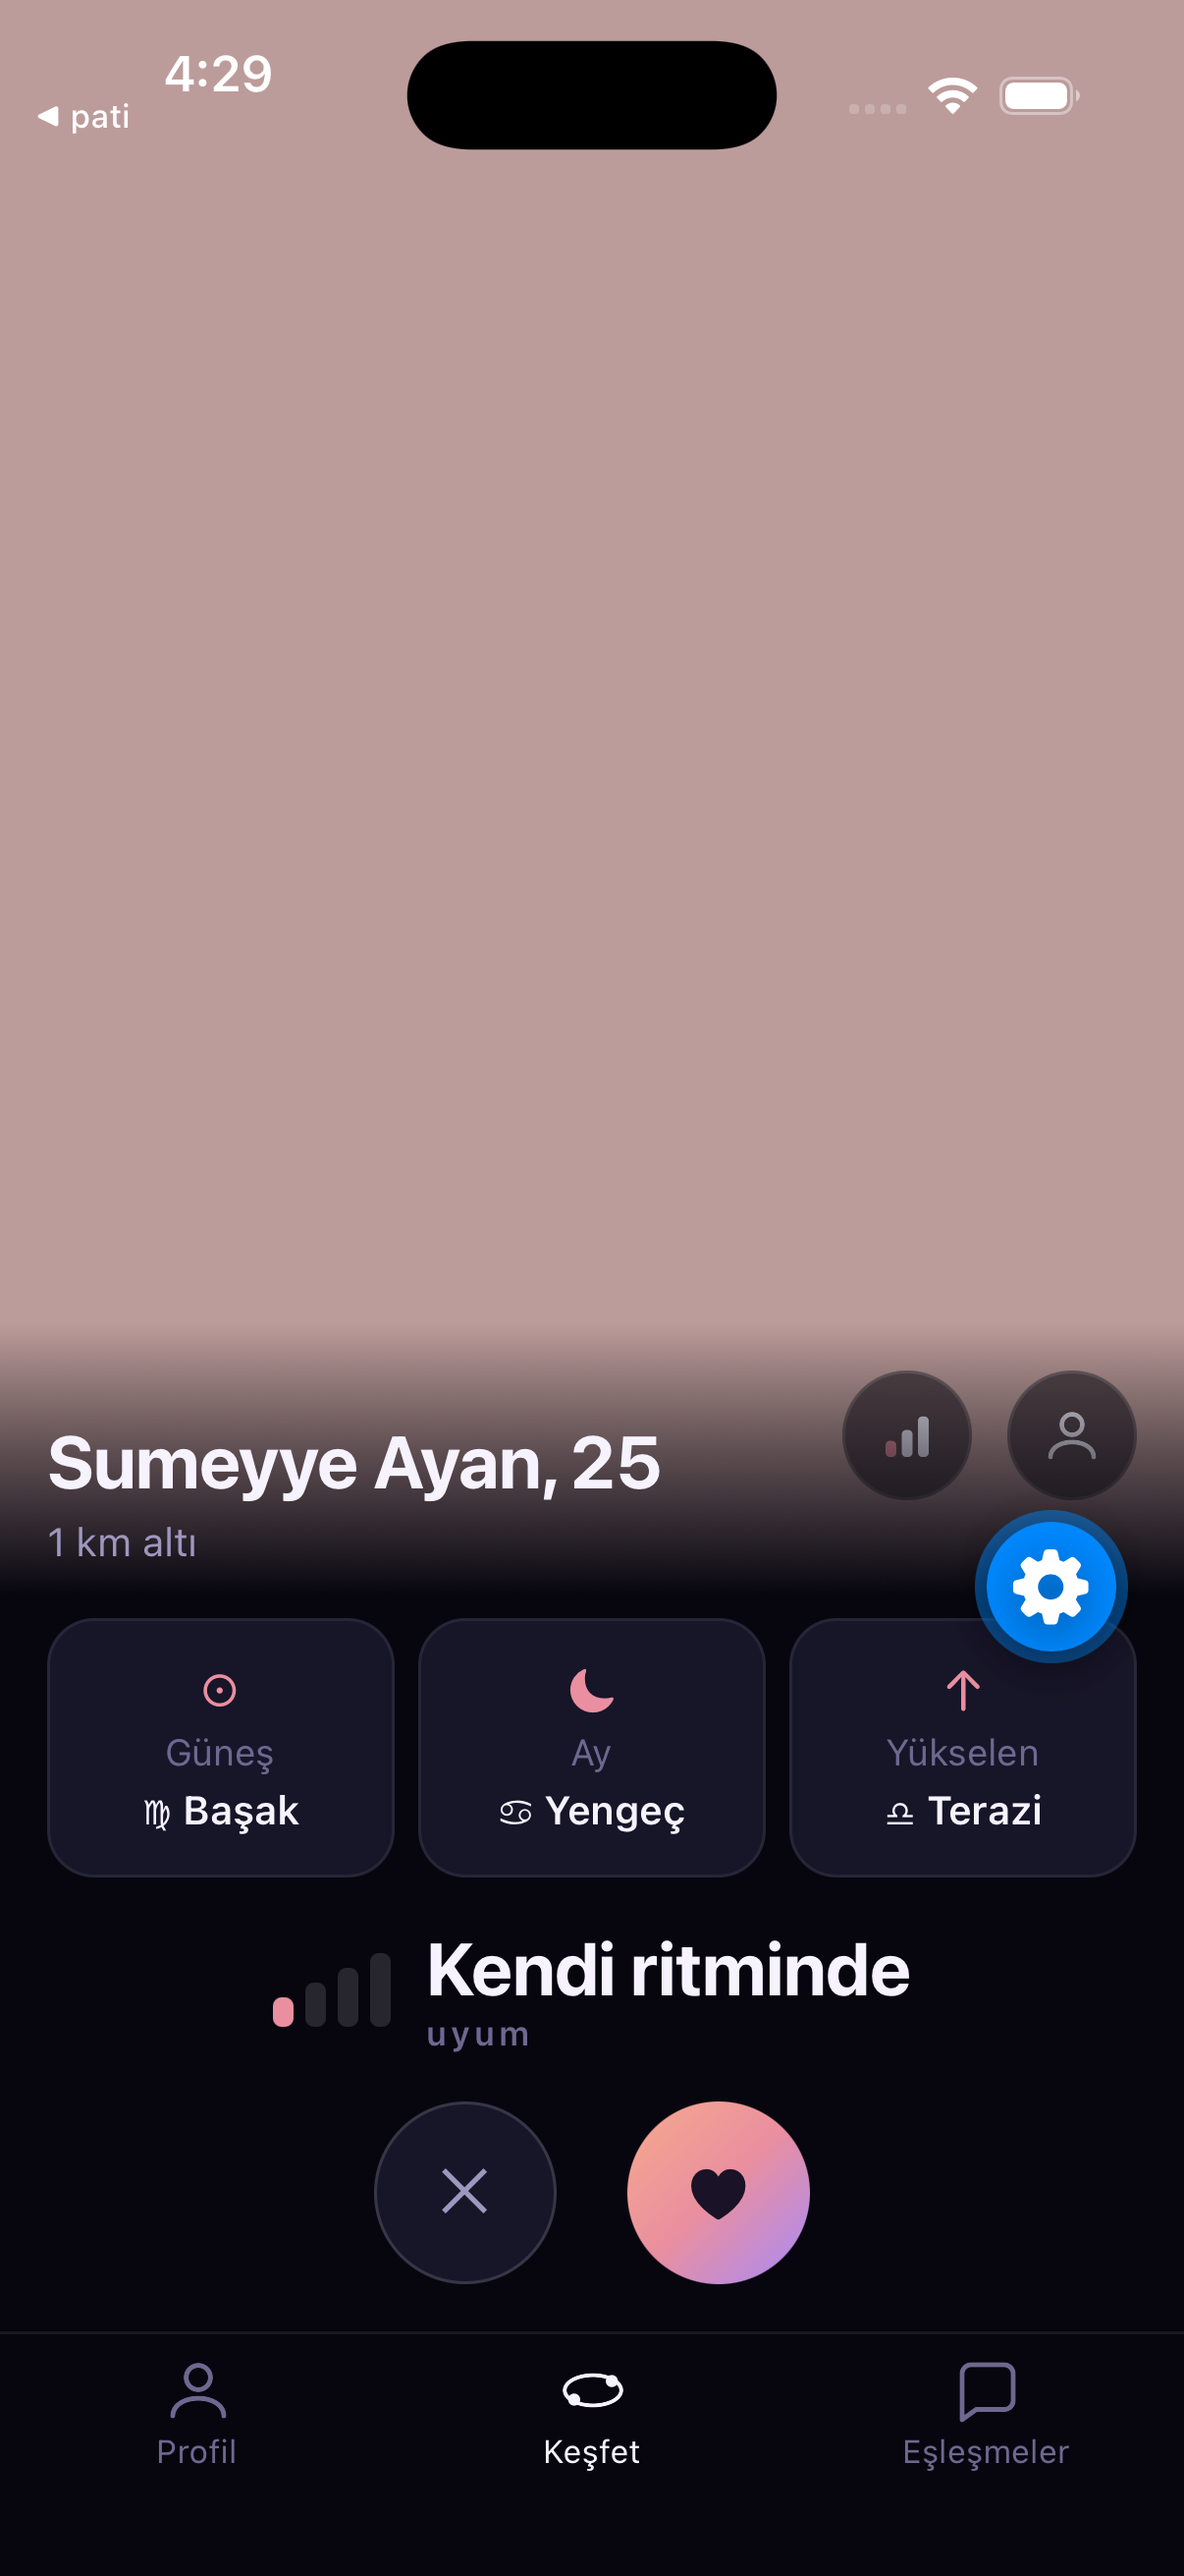
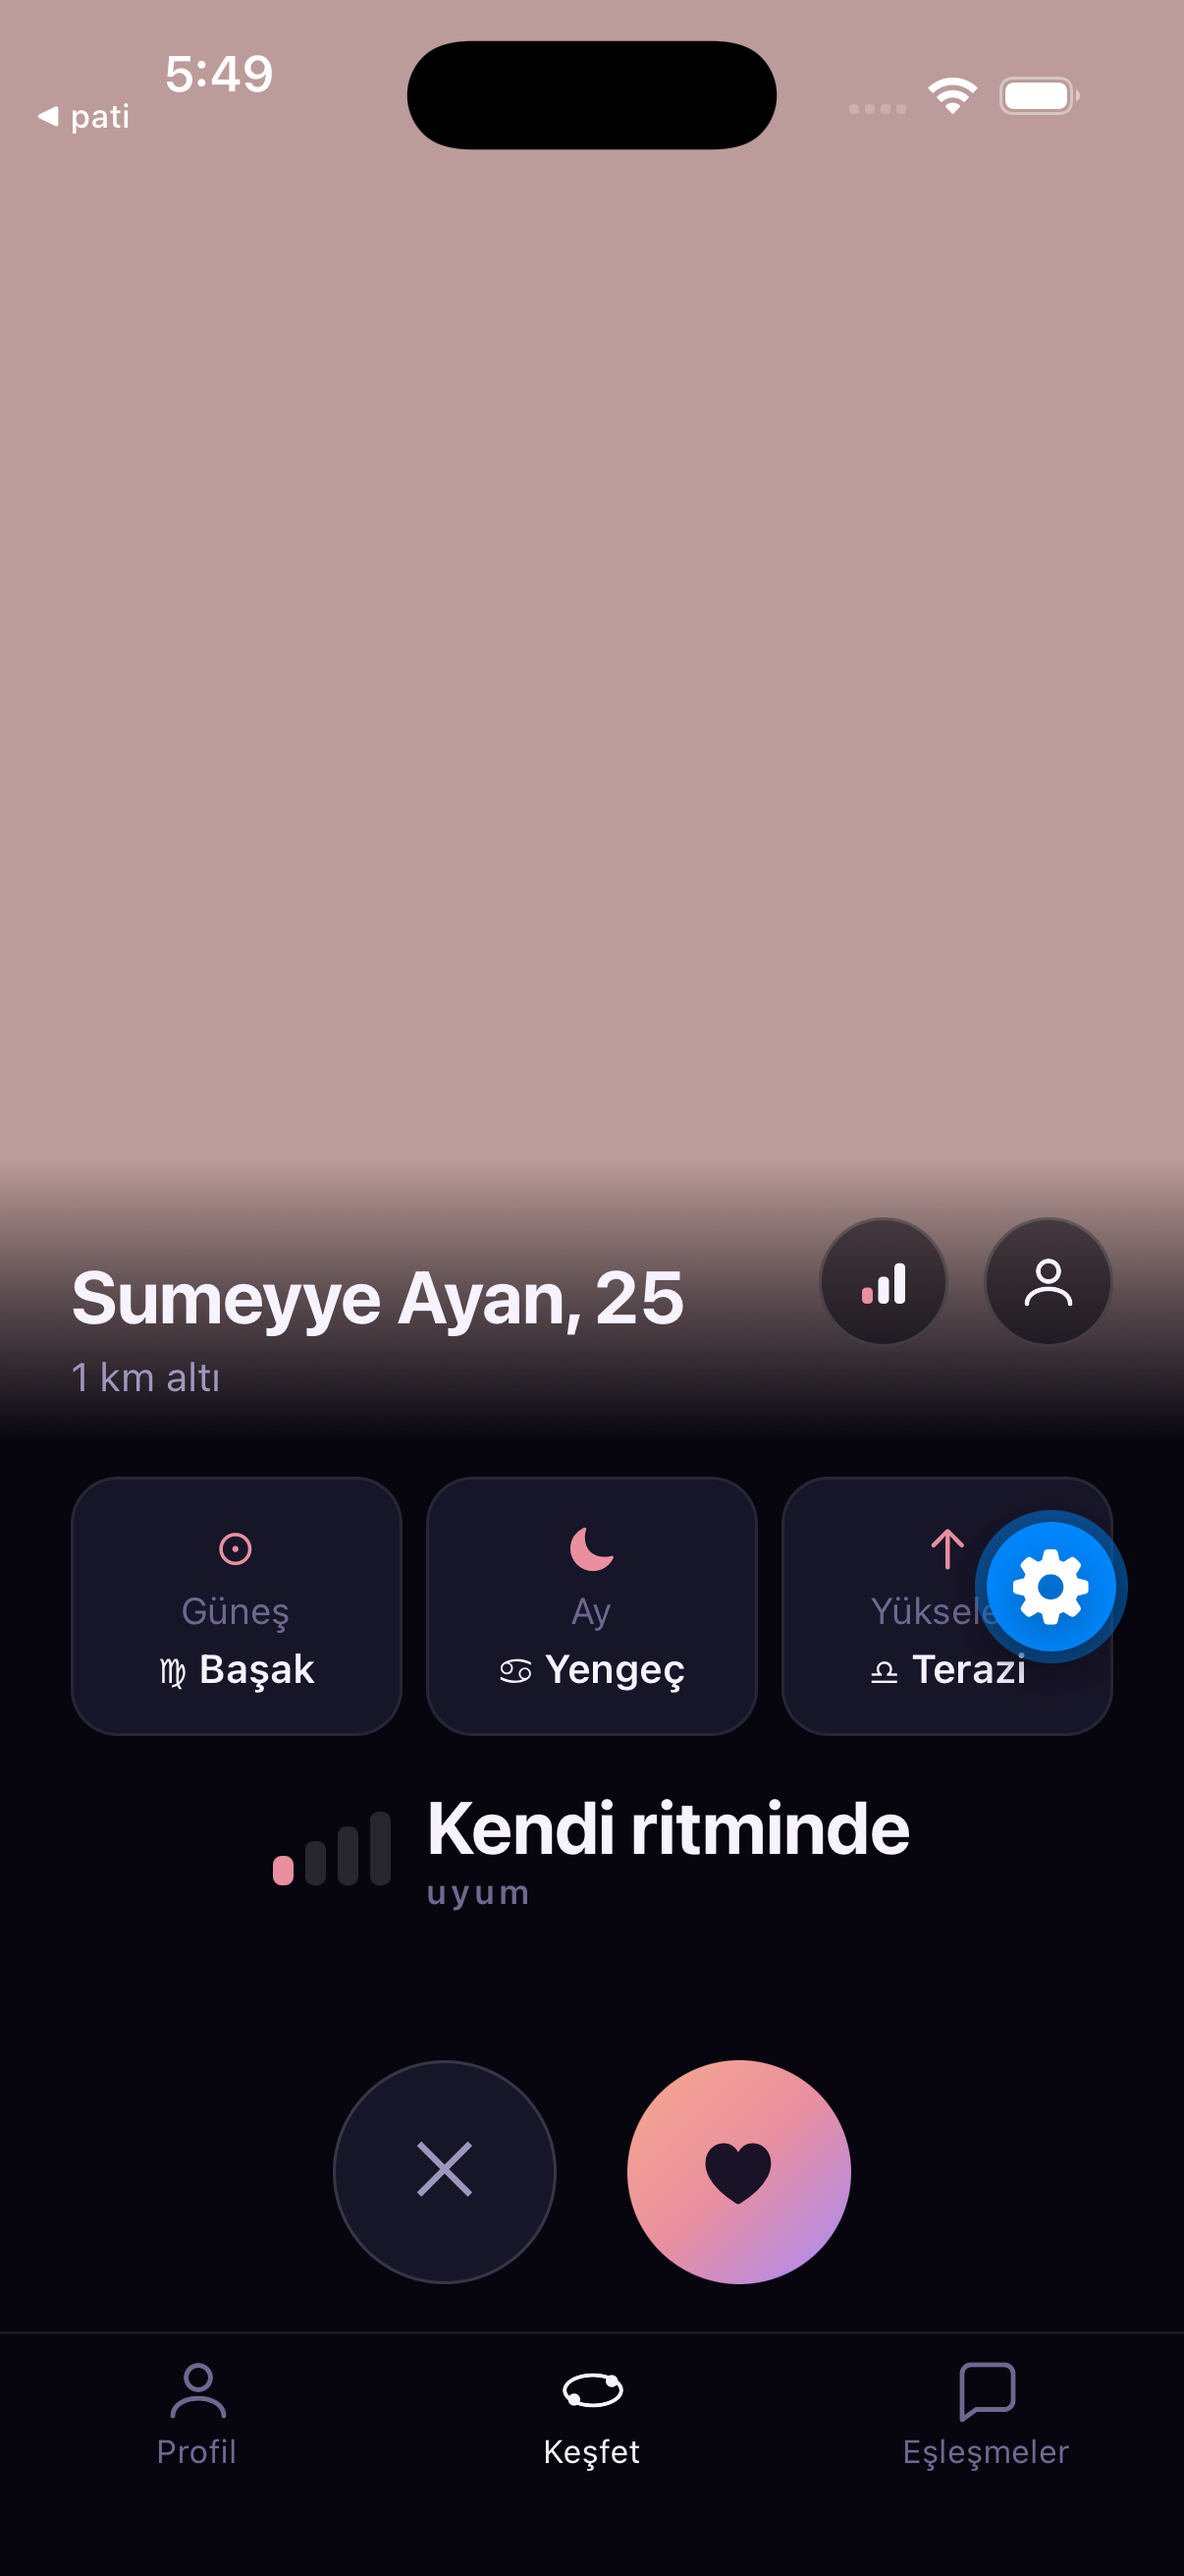
fix(mobile): the deck card and the profile draw the same person the same way
The owner said the photo, the name and the big three did not look
identical on the two screens. Two agents diffed the drawing paths with
every token resolved to points; all five differences were the deck's
side, and four of them were bare literals where the profile's equivalent
comes from Screen through SCREEN_PADDING: the name's gutter (16 vs 24),
the gap under the last line in the gradient (8 vs 12), the big-three
row's gutter (16, which also made every chip 5.3pt wider) and the gap
above that row (8 vs Screen's 12). The deck moved in each case, because
the profile's values live in the component three screens share.

The fifth was content, not style: the deck always draws a distance under
the name and the owner's own profile had nothing to put there, which let
the name drop 22pt on that screen alone. The caption is now always
rendered, empty when there is nothing to say.

Measured after: the big-three row starts and ends at the same x on both
and its top edge is at 502.0pt on each.

Also the owner's other half of the same message — the photo is shorter
(PHOTO_SCREEN_FRACTION 0.62 -> 0.56) and the verdict buttons took the
height, 62 -> 76pt.

Left standing on purpose: the profile's paging dots, which the deck has
no use for and which move nothing, and the deck's Dynamic Type cap, which
is invisible at the default size and exists because the deck cannot
scroll.

diff --git a/apps/mobile/app/(tabs)/(discover)/discover.tsx b/apps/mobile/app/(tabs)/(discover)/discover.tsx
@@ -27,7 +27,7 @@ import { CardIcon } from '@/components/CardIcon';
 import { CompatibilityDetail } from '@/components/CompatibilityDetail';
 import { BandMeter } from '@/components/Meter';
 import { Popup } from '@/components/Popup';
-import { PHOTO_SCREEN_FRACTION } from '@/components/ui';
+import { PHOTO_SCREEN_FRACTION, SCREEN_PADDING } from '@/components/ui';
 import { ProfileView } from '@/components/ProfileView';
 import { useScreenName } from '@/lib/a11y';
 import { useBottomGap } from '@/lib/insets';
@@ -673,14 +673,20 @@ const styles = StyleSheet.create({
     backgroundColor: color.surfaceHigh,
   },
   cardPhoto: { position: 'absolute', top: 0, left: 0, right: 0, bottom: 0 },
-  info: { paddingHorizontal: space.lg, paddingTop: space.sm, gap: space.sm },
+  info: {
+    paddingHorizontal: SCREEN_PADDING,
+    // `Screen`'s own gap between children, so the big three sit the same
+    // distance below the photo here as they do on the profile.
+    paddingTop: space.md,
+    gap: space.sm,
+  },
   // Above the name's own line, hard against the right gutter, so the two
   // never crowd a long name. The photo under them is still the swipe
   // surface: a drag that starts here passes to the card, because the
   // responder claims on movement and a Pressable only acts on a release.
   cardActions: {
     position: 'absolute',
-    right: space.lg,
+    right: SCREEN_PADDING,
     bottom: space.xxl,
     flexDirection: 'row',
     gap: space.md,
@@ -695,15 +701,18 @@ const styles = StyleSheet.create({
     alignItems: 'center',
     justifyContent: 'center',
   },
-  footer: { paddingHorizontal: space.lg, gap: space.sm },
+  footer: { paddingHorizontal: SCREEN_PADDING, gap: space.sm },
   photoScrim: {
     position: 'absolute',
     left: 0,
     right: 0,
     bottom: 0,
-    paddingHorizontal: space.lg,
+    // SCREEN_PADDING, not a literal: this block has to land on the same
+    // x as the profile's, which gets it from `Screen` (owner, 2026-09-14:
+    // the two cards must look exactly the same).
+    paddingHorizontal: SCREEN_PADDING,
     paddingTop: space.xxl,
-    paddingBottom: space.sm,
+    paddingBottom: space.md,
     gap: 2,
     // Paint only. It overlaps the two corner buttons, and a gradient
     // with a name in it must not be what a finger lands on.
@@ -760,8 +769,8 @@ const styles = StyleSheet.create({
     marginTop: space.sm,
   },
   round: {
-    width: 62,
-    height: 62,
+    width: 76,
+    height: 76,
     borderRadius: radius.pill,
     borderWidth: 1,
     borderColor: color.borderStrong,
@@ -770,14 +779,14 @@ const styles = StyleSheet.create({
     justifyContent: 'center',
   },
   roundLike: {
-    width: 62,
-    height: 62,
+    width: 76,
+    height: 76,
     borderRadius: radius.pill,
     overflow: 'hidden',
   },
   roundFill: { flex: 1, alignItems: 'center', justifyContent: 'center' },
-  roundGlyph: { fontSize: 22, color: color.textMuted },
-  roundGlyphOn: { fontSize: 24, color: color.onBright },
+  roundGlyph: { fontSize: 27, color: color.textMuted },
+  roundGlyphOn: { fontSize: 29, color: color.onBright },
   buttonBusy: { opacity: 0.5 },
   muted: { ...type.body, color: color.textMuted, textAlign: 'center' },
 });

diff --git a/apps/mobile/components/ProfileView.tsx b/apps/mobile/components/ProfileView.tsx
@@ -267,9 +267,12 @@ function PhotoCarousel({
         <Text style={styles.name} testID="profile-name">
           {age === null ? name : `${name}, ${age}`}
         </Text>
-        {caption === undefined ? null : (
-          <Text style={styles.caption}>{caption}</Text>
-        )}
+        {/* Always drawn, even with nothing to say: the deck's card always
+            has a distance line here, and the two are supposed to be the
+            same card (owner, 2026-09-14). An empty line keeps the name on
+            the same y rather than letting it drop 22pt on the one screen
+            that has no caption. */}
+        <Text style={styles.caption}>{caption ?? ''}</Text>
       </LinearGradient>
     </View>
   );

diff --git a/apps/mobile/components/ui.tsx b/apps/mobile/components/ui.tsx
@@ -41,7 +41,7 @@ export const SCREEN_TOP_PADDING = 68;
  * The two popup sheets are not in this: they are 88% of the screen tall
  * and keep the picture's own 3:4.
  */
-export const PHOTO_SCREEN_FRACTION = 0.62;
+export const PHOTO_SCREEN_FRACTION = 0.56;
 
 /**
  * What a host owes its first child if that child takes the top edge.

diff --git a/docs/NOTES.md b/docs/NOTES.md
@@ -3994,3 +3994,40 @@ With the pills gone the card had about 68pt of slack between the band and
 the ✕ / ♥, so `PHOTO_SCREEN_FRACTION` went 0.55 → 0.62 and the photo took
 it. The profile follows the same constant, so the two still end on the
 same line.
+
+## 2026-09-14 — the deck card and the profile, measured against each other
+
+The owner said the photo, the name and the big three did not look exactly
+the same on the two screens. Two agents diffed the drawing paths and
+resolved every token to points rather than eyeballing it; the list came
+back the same from both, and all of it was the deck's side drifting.
+
+Four numbers, all bare literals in `discover.tsx` where the profile's
+equivalent comes from `Screen` through `SCREEN_PADDING`: the name's
+gutter (16 against 24), the gap under the last line inside the gradient
+(8 against 12), the big-three row's gutter (16, which also made every
+chip 5.3pt wider) and the gap above that row (8 against `Screen`'s own
+12). The deck moved in every case, because the profile's values live in
+the component three screens share and moving them would drag the deck's
+own person sheet and the chat header's along.
+
+The fifth was not a style at all. The deck always draws a distance line
+under the name; the owner's own profile has nothing to put there and so
+drew none, which let the name drop 22pt on that one screen. The caption
+is now always rendered, empty when there is nothing to say. A blank line
+reserved on purpose is worth the note, because it looks like a mistake to
+anyone who finds it without this paragraph.
+
+Verified after the change rather than asserted: the big-three row starts
+at the same x and ends at the same x on both screens, and its top edge is
+at 502.0pt on each.
+
+Two differences are left standing on purpose. The profile draws paging
+dots and the deck does not — the deck shows one photo by design, and the
+dots sit above the name so they move nothing. And the deck caps Dynamic
+Type where the profile does not, which is invisible at the default size
+and deliberate above it: the deck cannot scroll and the profile can.
+
+The photo also got shorter — `PHOTO_SCREEN_FRACTION` 0.62 → 0.56 — and
+the verdict buttons went 62 → 76pt with it, which is what the owner asked
+the height for.

diff --git a/docs/ROADMAP.md b/docs/ROADMAP.md
@@ -1158,7 +1158,13 @@ other.
       the aspect sentence ("Satürn'ün onun Mars'ıyla üçgen açı yapıyor")
       and the remaining-count both left the card, taking
       `t.discover.noAspectWhy` and `t.discover.remaining` with them. ✕ / ♥
-      stay the last row. The deck photo and the profile photo now take the
+      stay the last row, at 76pt rather than 62 — the photo gave up the
+      height for them (`PHOTO_SCREEN_FRACTION` 0.62 → 0.56). Four gutters
+      and gaps on the deck that had drifted from the profile's were moved
+      onto `SCREEN_PADDING`, and the profile now always reserves the line
+      the deck fills with a distance, so the name sits at the same height
+      on both. Measured: the big-three row starts and ends at the same x
+      on each screen and its top edge is at 502.0pt on both. The deck photo and the profile photo now take the
       same share of the window (`PHOTO_SCREEN_FRACTION`), so their bottom
       edges line up: the profile takes it directly, the deck fills what
       its fixed block leaves and caps there, which is the arrangement that
